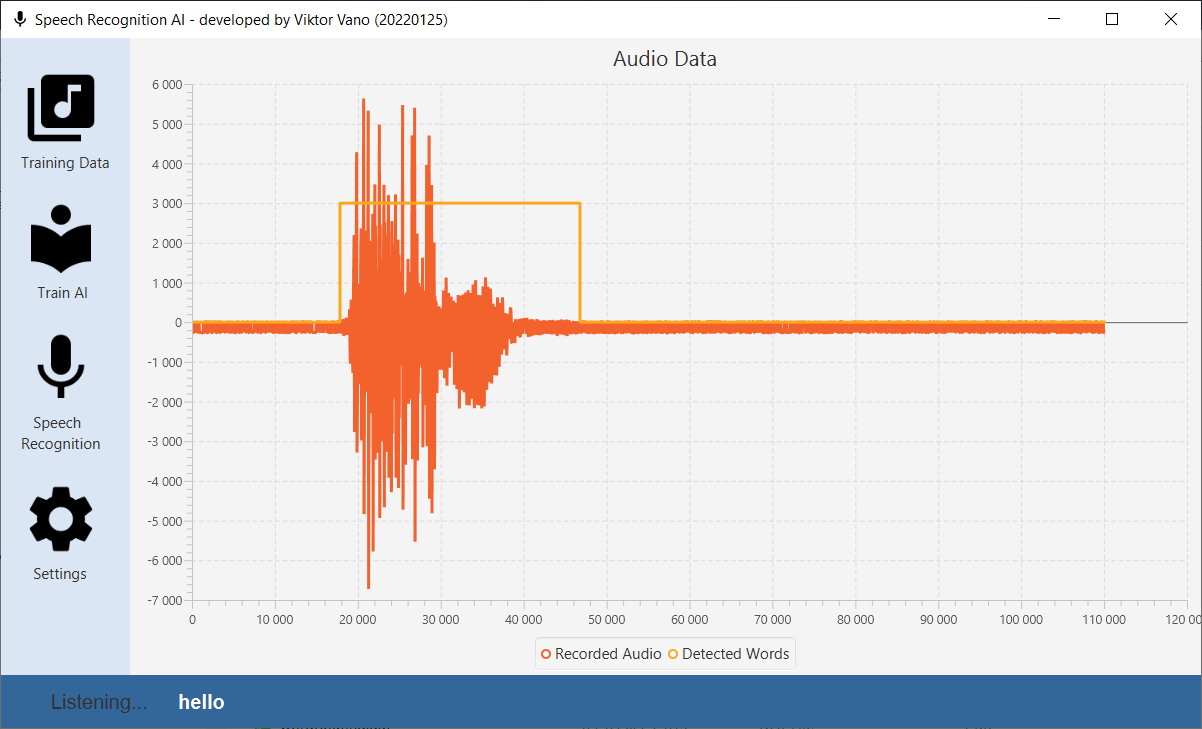
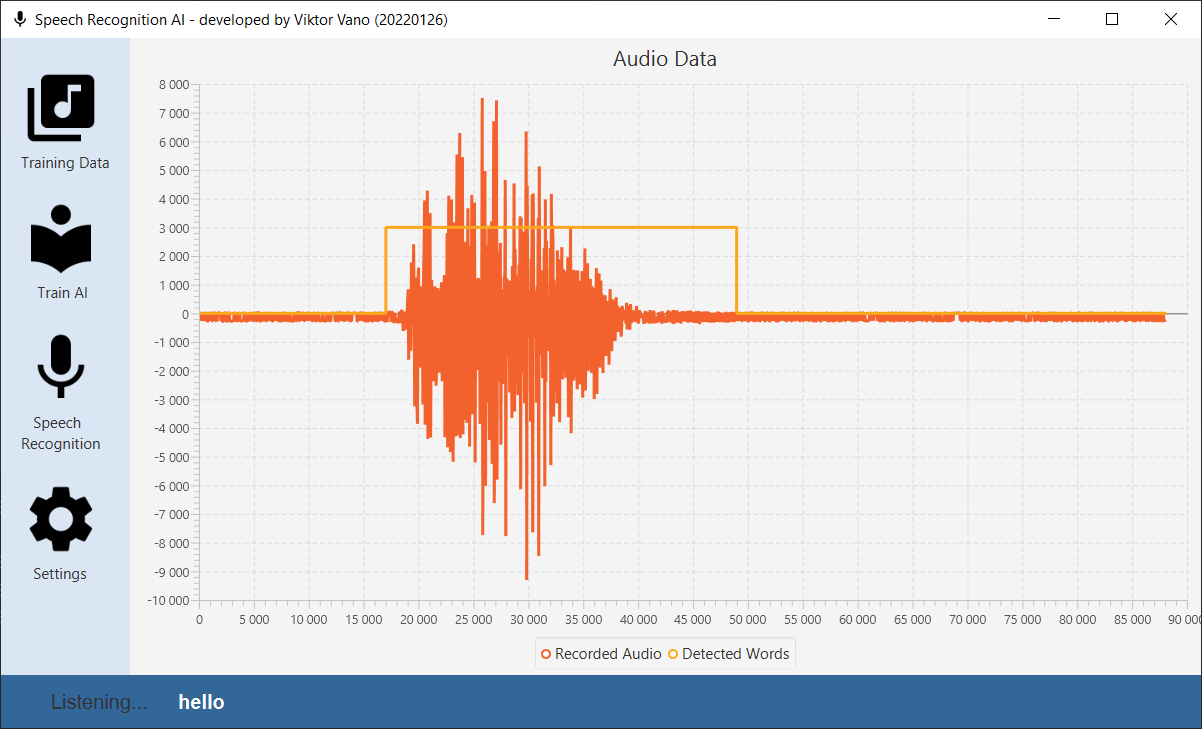
Updated to new release
- shortened stop recording time to 2 seconds
- fixed exit training label in training layout
- new screenshots

diff --git a/src/com/ViktorVano/SpeechRecognitionAI/Audio/AudioCapture.java b/src/com/ViktorVano/SpeechRecognitionAI/Audio/AudioCapture.java
@@ -144,7 +144,7 @@ public class AudioCapture {
                             mainBufferLength += cnt;
                             System.out.println("Main Buffer Length: " + mainBufferLength);
                             silenceCount = 0;
-                        }else if(mainBufferLength > 0 && silenceCount < 3 && mainBufferLength < 950000)
+                        }else if(mainBufferLength > 0 && silenceCount < 2 && mainBufferLength < 950000)
                         {
                             for(int i = 0; i< tempCaptureBuffer.length; i++)
                             {

diff --git a/src/com/ViktorVano/SpeechRecognitionAI/GUI/SpeechRecognitionAI.java b/src/com/ViktorVano/SpeechRecognitionAI/GUI/SpeechRecognitionAI.java
@@ -585,7 +585,7 @@ public class SpeechRecognitionAI extends Application {
                 timelineTrainingLabelUpdate.stop();
             }else if(updateTrainingLabel)
             {
-                if (currentTrainingLossLabel < exitTrainingLoss && trainingPassLabel > minimumTrainingCycles
+                if (averageLoss < exitTrainingLoss && trainingPassLabel > minimumTrainingCycles
                     || buttonStopTraining.isDisabled()){
                     trainingIsRunning = false;
                     labelTrainingStatus.setText("Training pass: " + trainingPassLabel

diff --git a/src/com/ViktorVano/SpeechRecognitionAI/FFNN/TrainingThread.java b/src/com/ViktorVano/SpeechRecognitionAI/FFNN/TrainingThread.java
@@ -117,7 +117,7 @@ public class TrainingThread extends Thread {
                 break;
             }else if(averageLoss < quickSaveLossValue)//must be average error, otherwise it would be ofter from start
             {
-                quickSaveLossValue = averageLoss /2f;
+                quickSaveLossValue = averageLoss / 2f;
                 neuralNetwork.saveNeuronWeights();
             }
 

diff --git a/src/com/ViktorVano/SpeechRecognitionAI/Miscellaneous/Variables.java b/src/com/ViktorVano/SpeechRecognitionAI/Miscellaneous/Variables.java
@@ -6,7 +6,7 @@ import java.util.ArrayList;
 
 public class Variables {
 
-    public static int versionNumber = 20220125;
+    public static int versionNumber = 20220126;
 
     public static int recorderThreshold = 500;
     public static int wordThreshold = 500;
